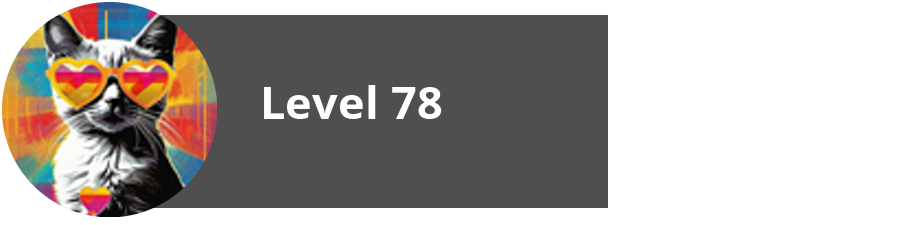
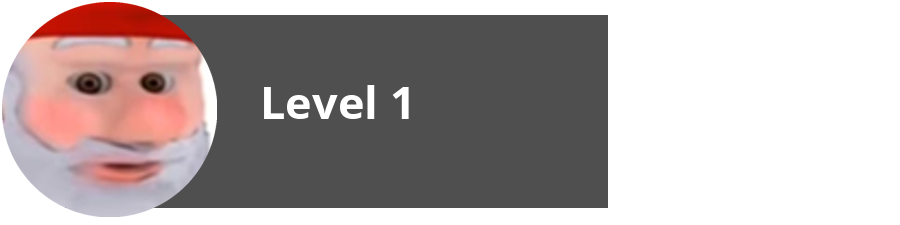
Hidden secret

Changed region(s): [[0.0, 0.0, 0.2489, 0.9644], [0.4044, 0.3733, 0.4978, 0.5289]]

diff --git a/level/level_up.py b/level/level_up.py
@@ -1,16 +1,12 @@
 import discord
-from discord import app_commands
 from discord.ext import commands
-from utilitys import embed_builder
 from database import database
-from PIL import Image, ImageDraw, ImageChops,ImageFont
+from PIL import Image, ImageDraw, ImageChops, ImageFont
 from io import BytesIO
 import os
 
-def circle(pfp,size = (215,215)):
-    
+def circle(pfp, size=(215, 215)):
     pfp = pfp.resize(size).convert("RGBA")
-    
     bigsize = (pfp.size[0] * 3, pfp.size[1] * 3)
     mask = Image.new('L', bigsize, 0)
     draw = ImageDraw.Draw(mask) 
@@ -28,28 +24,30 @@ class levelup(commands.Cog):
         self.client = client
 
     @commands.Cog.listener()
-    async def on_message(self,message):
+    async def on_message(self, message):
         if message.author.bot:
             return
         
-        #"userid"	INTEGER,
-        #"guildid"	INTEGER,
-        #"level"	INTEGER,
-        #"xp"	INTEGER,
-        #"warnings"	INTEGER,
-
         if not db.get_level_up(message.guild.id): 
             return
-        
+
+        # Ensure the user is added to the database
         user_data = db.get_user_data(message.author.id, message.guild.id)
+        if user_data is None:
+            db.add_member(message.author.id, message.guild.id)
+            user_data = db.get_user_data(message.author.id, message.guild.id)
+        
         # Add member if they aren't already in the database
         db.add_member(message.author.id, message.guild.id)
+        
         # Give the user {xp_per_message} XP
-        db.update_xp(message.author.id, message.guild.id, user_data[3] + xp_per_message)
+        new_xp = user_data[3] + xp_per_message
+        db.update_xp(message.author.id, message.guild.id, new_xp)
 
         guild_data = db.get_level_up(message.guild.id)
+        
         # Level up if the user has more than 1000 XP
-        if user_data[3] >= 1000:
+        if new_xp >= 1000:
             # Reset the user's XP and increase their level by 1
             db.update_xp(message.author.id, message.guild.id, 0)
             db.update_level(message.author.id, message.guild.id, user_data[2] + 1)
@@ -58,23 +56,24 @@ class levelup(commands.Cog):
                 channel = self.client.get_channel(guild_data[1])
             else:
                 channel = message.channel
+            
             if guild_data[2] == "Default":
                 # Make a custom level up image to congratulate the user
                 # Get the directory where the script is located
                 script_dir = os.path.dirname(os.path.abspath(__file__))
 
                 # Construct the full path to 'level.png' in the same directory as the script
-                image_path = os.path.join(script_dir,"levelup.png")
+                image_path = os.path.join(script_dir, "levelup.png")
 
                 image = Image.open(image_path).convert("RGBA")
 
                 asset = message.author.avatar
                 data = BytesIO(await asset.read())
                 pfp = Image.open(data)
-                pfp = pfp.resize((98,98))
+                pfp = pfp.resize((98, 98))
                 pfp = circle(pfp)
                 
-                # Create a new image with a white background
+                # Create a new image with a light_embed background
                 text_image = Image.new('RGBA', image.size, (255, 255, 255, 0))
                 draw = ImageDraw.Draw(text_image)
 
@@ -82,15 +81,15 @@ class levelup(commands.Cog):
                 
                 font = ImageFont.truetype("font.ttf", 45)
 
-                draw.text((10,10), text, (255,255,255), font=font)
+                draw.text((10, 10), text, (255, 255, 255), font=font)
                 
                 # Paste the text image onto the original image using the alpha channel of the original image as a mask
-                image.alpha_composite(text_image, (250,60))
-                image.alpha_composite(pfp, (2,2))
+                image.alpha_composite(text_image, (250, 60))
+                image.alpha_composite(pfp, (2, 2))
                 
                 image.save("profile.png")
 
-                await channel.send(f"Well done <@{message.author.id}> you leveled up",file=discord.File("profile.png"))
+                await channel.send(f"Well done <@{message.author.id}> you leveled up", file=discord.File("profile.png"))
             else:
                 target_member = message.author
 

diff --git a/level/enable_level_up.py b/level/enable_level_up.py
@@ -7,6 +7,7 @@ from io import BytesIO
 import os
 
 db = database.db
+
 class enable_level_up(commands.Cog):
     def __init__(self, client: commands.bot):
         self.client = client
@@ -27,26 +28,33 @@ class enable_level_up(commands.Cog):
 
         if not message:
             message = "Default"
+        
         old = db.get_level_up(interaction.guild_id)
         db.set_level_up(interaction.guild_id, channel, message)
+        
         if channel == "None":
             channel = "Same Channel as the user is typing in"
         else:
             channel = f"<#{channel}>"
 
+        # Handle cases where `old` might be `None`
+        if old is not None:
+            before_text = f"Channel: {old[1]}\nMessage: {old[2]}"
+        else:
+            before_text = "No previous data available."
 
         # Create the embed
         overview = embed_builder(
             "Level Up Message",
             "Level Up Message has been set",
             fields=[
-                field("Before", f"Channel: {old[1]}\nMessage: {old[2]}"),
+                field("Before", before_text),
                 field("After", f"Channel: {channel}\nMessage: {db.get_level_up(interaction.guild_id)[2]}"),
             ],
         )
 
         # Send a message to the user that the panel has been created
-        await interaction.response.send_message("Ticket Panel Created!", ephemeral=True)
-        
+        await interaction.response.send_message(embed=overview, ephemeral=True)
+
 async def setup(client: commands.Bot) -> None:
     await client.add_cog(enable_level_up(client))

diff --git a/utilitys/embed_builder.py b/utilitys/embed_builder.py
@@ -5,7 +5,7 @@ class field:
         self.name = name
         self.description = description
 
-def embed_builder(title, description, fields = None, color = discord.Color.yellow()):
+def embed_builder(title, description, fields = None, color = discord.Color.light_embed()):
     embed = discord.Embed(
         title=title,
         description=description,
@@ -14,5 +14,6 @@ def embed_builder(title, description, fields = None, color = discord.Color.yello
     if fields:
         for field in fields:
             embed.add_field(name=field.name, value=field.description)
-    embed.set_footer(text=f"Pollen - Lightweight Discordbot",icon_url="https://cdn.discordapp.com/app-icons/1145021802083528735/56c74d987e6d5240adc7549e6a1fc86c.png?size=256&quot")
+    embed.set_footer(text=f"Premier Boxing Association",icon_url="https://cdn.discordapp.com/icons/1225123710768513116/3d9904e34f51e265507e33af9b03830b.webp?size=96")
+
     return embed

diff --git a/moderation/rules.py b/moderation/rules.py
@@ -1,0 +1,14 @@
+import discord
+from discord.ext import commands
+from discord import app_commands
+
+class rules(commands.Cog):
+    def __init__(self, client: commands.bot):
+        self.client = client
+        
+    @app_commands.command(name="rules", description="Display the rules")
+    async def modal(self, interaction: discord.Interaction):
+        await interaction.response.send_message("Go to <#1225379360828293211> for the rules.", ephemeral=True)
+
+async def setup(client: commands.Bot) -> None:
+    await client.add_cog(rules(client))

diff --git a/moderation/link.py b/moderation/link.py
@@ -1,0 +1,14 @@
+import discord
+from discord.ext import commands
+from discord import app_commands
+
+class link(commands.Cog):
+    def __init__(self, client: commands.bot):
+        self.client = client
+        
+    @app_commands.command(name="link", description="Game link!")
+    async def modal(self, interaction: discord.Interaction):
+        await interaction.response.send_message("https://www.roblox.com/games/6804602922/Boxing-Beta", ephemeral=True)
+
+async def setup(client: commands.Bot) -> None:
+    await client.add_cog(link(client))

diff --git a/main.py b/main.py
@@ -19,13 +19,14 @@ class client(commands.Bot):
 
     # Define a list of cogs to load
     cogslist = [
-        "moderation.ban",
         "ticket.setup_ticket",
         "level.level_up",
         "level.enable_level_up",
         "joinmessage.set_join_message",
         "joinmessage.test_join_message",
         "joinmessage.send_join",
+        "moderation.rules",
+        "moderation.link"
     ]
 
     # Define a setup hook to load all the cogs

diff --git a/ticket/setup_ticket.py b/ticket/setup_ticket.py
@@ -32,7 +32,7 @@ class create(ui.Modal, title="Create a ticket panel"):
 
         # Create the embed
         embed = discord.Embed(
-            colour=discord.Colour.yellow(),
+            colour=discord.Colour.light_embed(),
             description=self.description,
             title=self.header
         )

diff --git a/config.py b/config.py
@@ -1,1 +1,1 @@
-TOKEN = "Paste your token here"
+TOKEN = ""

diff --git a/README.md b/README.md
@@ -1,4 +1,4 @@
-# Pollen Discord Bot
+# Premier Boxing Association Discord Bot
 Free and open source Discord bot which you are allowed to fork and run on your own server
 
 ### Getting started
